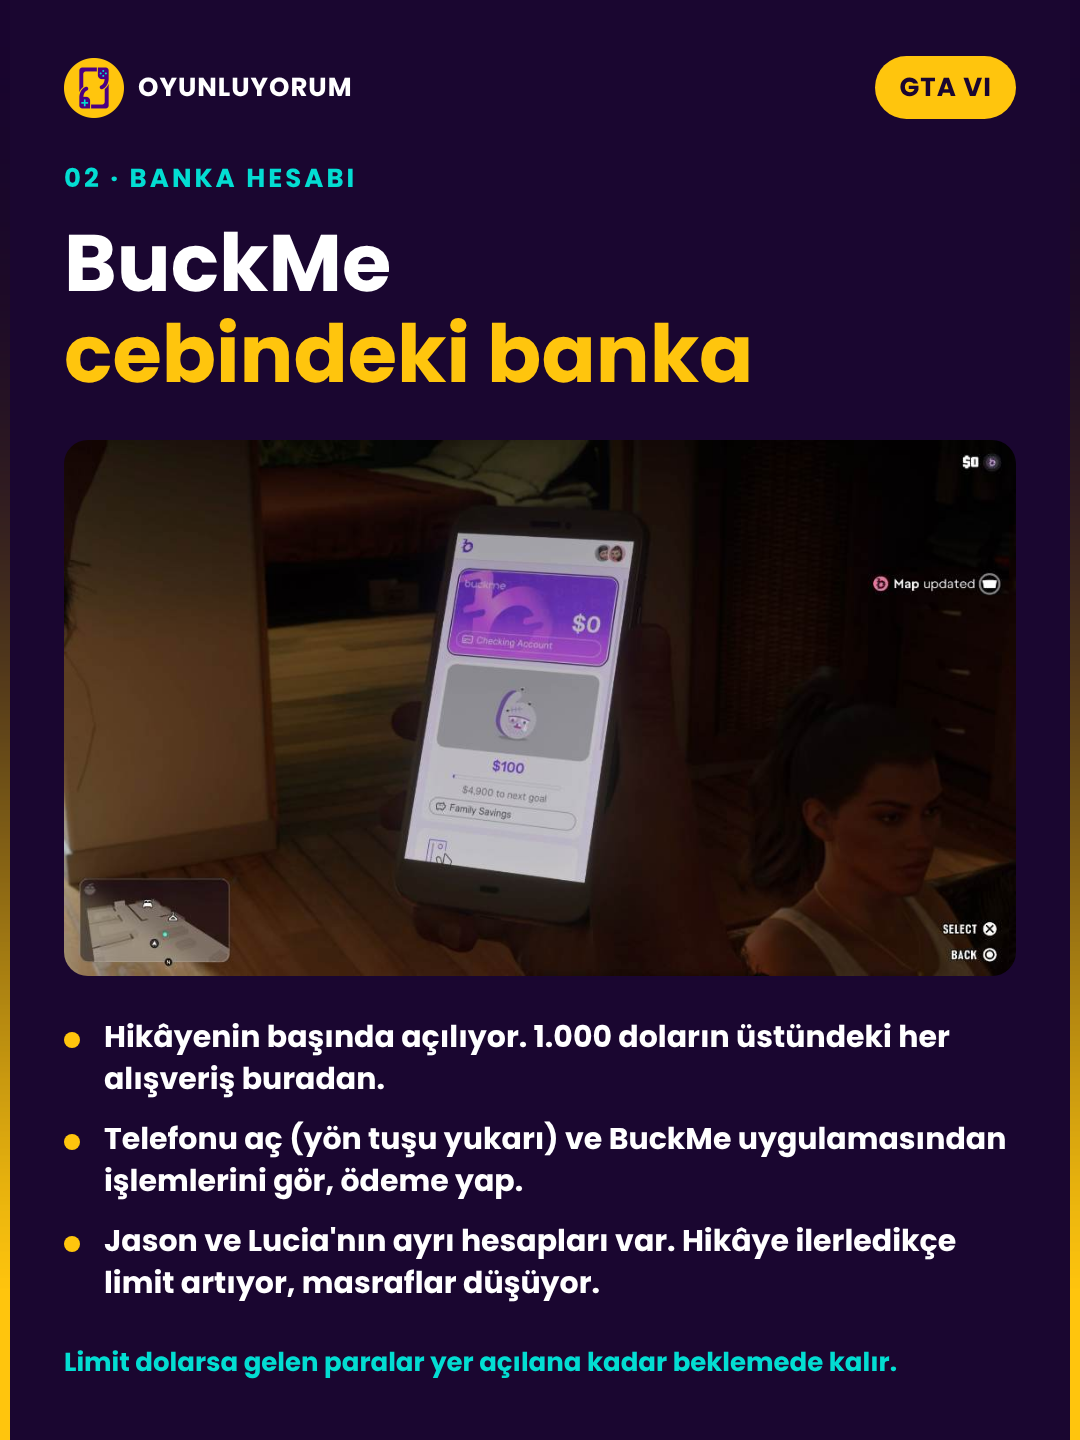
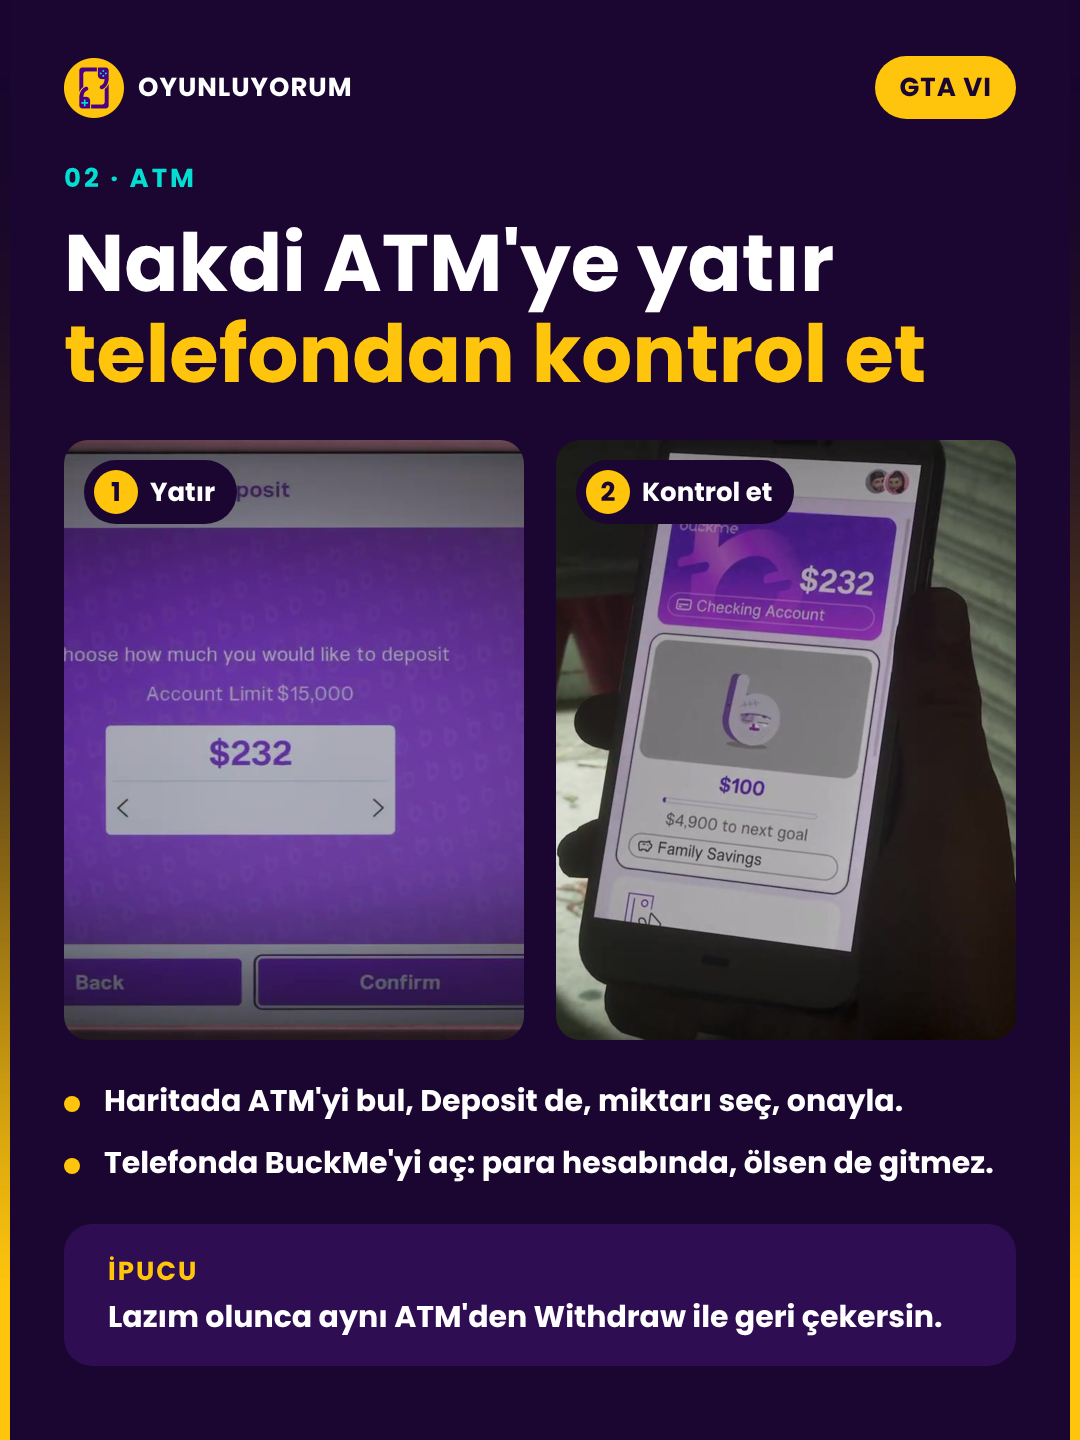
Para karuseline ATM slaytı eklendi (5 slayt)
Claude-Session: https://claude.ai/code/session_01Cfy9VgEXWVL5ta7MT2PpLs

diff --git a/posts/2026-11-19-gta6-para/aciklama.md b/posts/2026-11-19-gta6-para/aciklama.md
@@ -1,7 +1,7 @@
 # GTA 6 para yönetimi – Instagram karuseli
 
 Durum: hazır, henüz paylaşılmadı
-Boyut: 1080×1440, 4 slayt
+Boyut: 1080×1440, 5 slayt (3. slayt: ATM + telefon, oyun içi video karelerinden)
 Tasarım tuvali: https://claude.ai/artifact/UEipRBapLZEHbARUr1kMxb
 Kaynak: https://www.gamesradar.com/games/grand-theft-auto/gta-6-money-buckme-bank-account-manage/
 
@@ -9,10 +9,10 @@ Kaynak: https://www.gamesradar.com/games/grand-theft-auto/gta-6-money-buckme-ban
 
 GTA 6'da ölürsen ya da yakalanırsan cebindeki paranın hepsi gidiyor 😬 Bu oyunda para gerçekten önemli.
 
-Paran üç yerde duruyor: cebinde, BuckMe banka hesabında ve Jason ile Lucia'nın ortak aile birikiminde. Hangisinde ne kadar tutabileceğini, nereye ne zaman yatırman gerektiğini ve geri dönüşü olmayan hatayı anlattık 👇
+Paran üç yerde duruyor: cebinde, BuckMe banka hesabında ve Jason ile Lucia'nın ortak aile birikiminde. Hangisinde ne kadar tutabileceğini, nereye ne zaman yatırman gerektiğini ve geri dönüşü olmayan hatayı anlattık. Bir de kısa yol: nakdi ATM'ye yatır, telefondan BuckMe'ye bak, para hesabında 👇
 
 Kaydet, oyunda lazım olacak.
 
-(Kaynak ve görseller: GamesRadar+)
+(Kaynak ve görseller: GamesRadar+, ATM kareleri oyun içi videodan)
 
 #gta6 #gtavi #gta6rehber #vicecity #oyunluyorum
